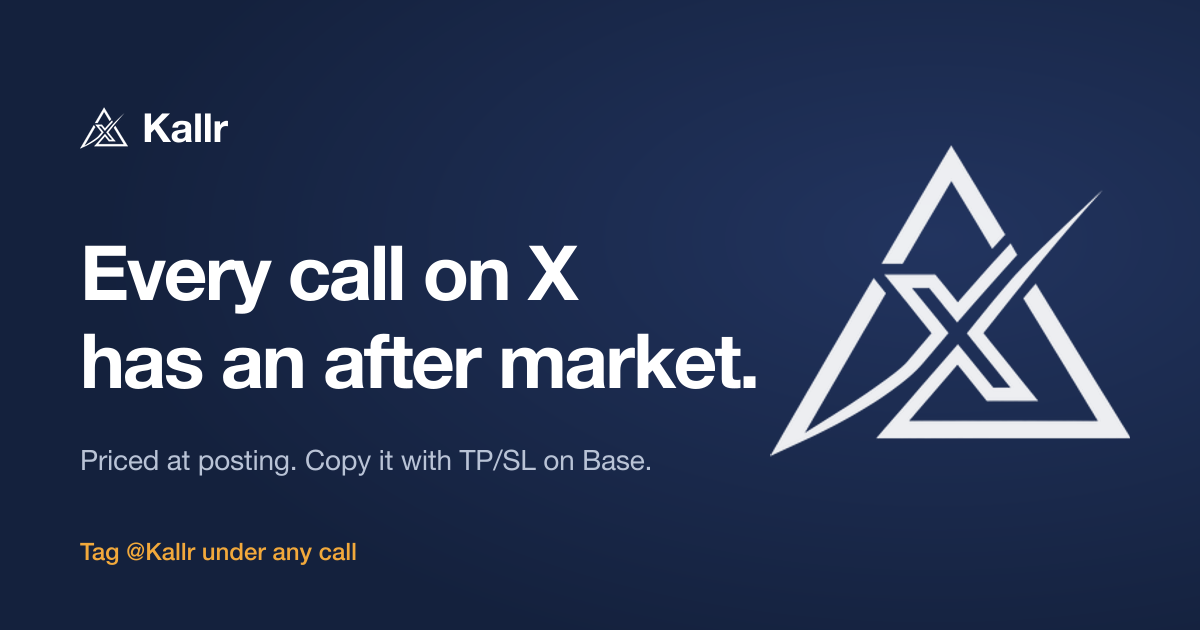
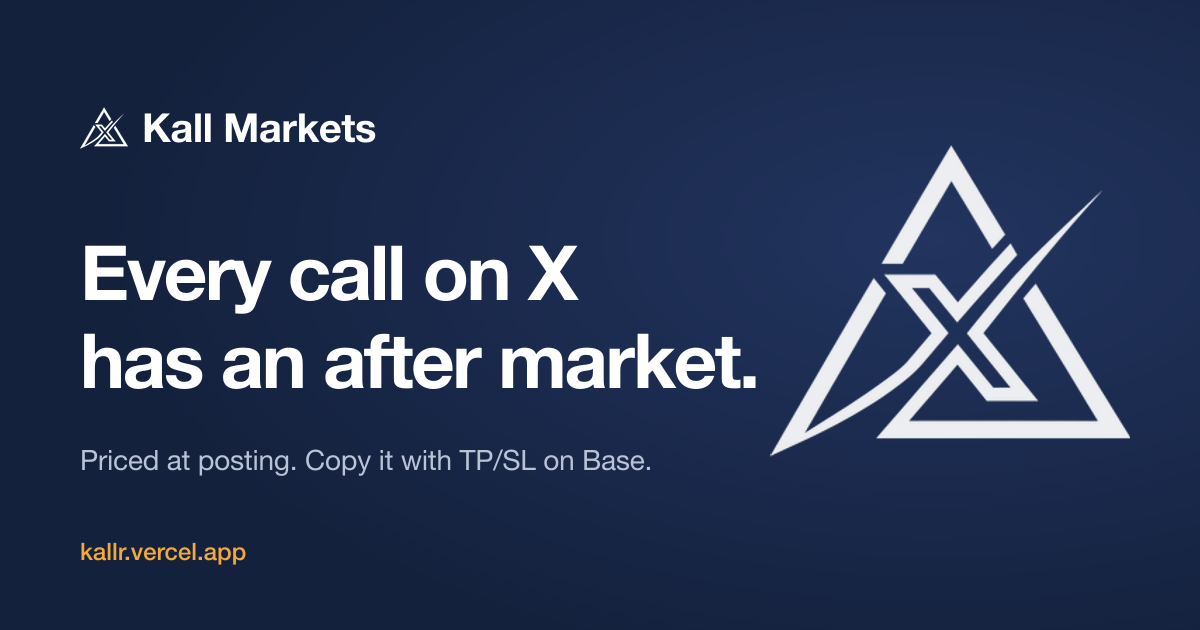
Rename the product to Kall Markets everywhere
Kall Markets replaces Kallr Markets, and the remaining Kallr copy now says Kall
Markets too: the Kall Markets wallet, desk, extension and keyboard, the keyboard
launcher icon and its two themes, the README and KALLR.md, and the social preview
image. Package names, the app ID, API routes, storage keys and the kallr.vercel.app
domain still say kallr.

Changed region(s): [[0.0617, 0.8444, 0.3083, 0.9048], [0.1542, 0.181, 0.3083, 0.2413]]

diff --git a/kallr-keyboard/app/src/main/kotlin/dev/patrickgold/florisboard/ime/kallr/KallrActivities.kt b/kallr-keyboard/app/src/main/kotlin/dev/patrickgold/florisboard/ime/kallr/KallrActivities.kt
@@ -206,7 +206,7 @@ private fun TradeSheet(order: KeyboardOrder, onClose: () -> Unit) {
                     SheetState.SignIn -> {
                         Text("Sign in to trade", fontSize = 18.sp, fontWeight = FontWeight.Medium)
                         Text(
-                            "Kallr Markets uses the same wallet as the Kallr desk. Sign in with X once; the key stays with Privy.",
+                            "Kall Markets uses the same wallet as the Kall Markets desk. Sign in with X once; the key stays with Privy.",
                             modifier = Modifier.padding(top = 6.dp, bottom = 14.dp),
                             color = MaterialTheme.colorScheme.onSurfaceVariant,
                         )
@@ -254,15 +254,15 @@ private fun TradeSheet(order: KeyboardOrder, onClose: () -> Unit) {
                         Spacer(Modifier.height(12.dp))
                         Text("Order placed on Base", fontSize = 18.sp, fontWeight = FontWeight.Medium)
                         Text(
-                            "${s.title} · Flash order ${s.orderId.take(10)}… · it shows on your Kallr Markets trades.",
+                            "${s.title} · Flash order ${s.orderId.take(10)}… · it shows on your Kall Markets trades.",
                             modifier = Modifier.padding(top = 6.dp, bottom = 14.dp),
                             color = MaterialTheme.colorScheme.onSurfaceVariant,
                         )
                         Row(horizontalArrangement = Arrangement.spacedBy(10.dp), verticalAlignment = Alignment.CenterVertically) {
                             OutlinedButton(onClick = {
-                                val share = "${s.title} via Kallr Markets" + (order.caller?.let { ", copying @$it's call" } ?: "") + ". Flash on Base."
+                                val share = "${s.title} via Kall Markets" + (order.caller?.let { ", copying @$it's call" } ?: "") + ". Flash on Base."
                                 val cm = context.getSystemService(ClipboardManager::class.java)
-                                cm?.setPrimaryClip(ClipData.newPlainText("Kallr", share))
+                                cm?.setPrimaryClip(ClipData.newPlainText("Kall Markets", share))
                                 Toast.makeText(context, "Copied. Paste it in the chat.", Toast.LENGTH_SHORT).show()
                                 onClose()
                             }, modifier = Modifier.weight(1f).height(48.dp)) { Text("Copy to share") }
@@ -333,7 +333,7 @@ private fun WalletScreen() {
             lineHeight = 36.sp,
         )
         Text(
-            "Trade calls from your keyboard, in X, Telegram or any app. Same wallet as the Kallr desk.",
+            "Trade calls from your keyboard, in X, Telegram or any app. Same wallet as the Kall Markets desk.",
             modifier = Modifier.padding(top = 6.dp, bottom = 20.dp),
             color = MaterialTheme.colorScheme.onSurfaceVariant,
         )
@@ -356,7 +356,7 @@ private fun WalletScreen() {
                 Text(a, fontSize = 15.sp, fontWeight = FontWeight.Medium, modifier = Modifier.padding(vertical = 6.dp))
                 Row(horizontalArrangement = Arrangement.spacedBy(10.dp)) {
                     OutlinedButton(onClick = {
-                        context.getSystemService(ClipboardManager::class.java)?.setPrimaryClip(ClipData.newPlainText("Kallr wallet", a))
+                        context.getSystemService(ClipboardManager::class.java)?.setPrimaryClip(ClipData.newPlainText("Kall Markets wallet", a))
                         Toast.makeText(context, "Address copied", Toast.LENGTH_SHORT).show()
                     }) { Text("Copy address") }
                     OutlinedButton(onClick = { scope.launch { refresh() } }) { Text("Refresh") }
@@ -419,12 +419,12 @@ private fun ShareSheet(text: String, onClose: () -> Unit) {
         Surface(Modifier.fillMaxWidth().clickable(enabled = false) {}, shape = RoundedCornerShape(topStart = 20.dp, topEnd = 20.dp), tonalElevation = 2.dp) {
             Column(Modifier.dotField().padding(start = 20.dp, end = 20.dp, top = 10.dp, bottom = 20.dp).navigationBarsPadding()) {
                 SheetHandle()
-                Text("Kallr Markets · check this call", fontSize = 18.sp, fontWeight = FontWeight.SemiBold)
+                Text("Kall Markets · check this call", fontSize = 18.sp, fontWeight = FontWeight.SemiBold)
                 Spacer(Modifier.height(8.dp))
                 val r = result
                 when {
                     loading -> Progress("Reading it…")
-                    r == null -> Text("Couldn't check that. Is the Kallr Markets server reachable?", color = MaterialTheme.colorScheme.error)
+                    r == null -> Text("Couldn't check that. Is the Kall Markets server reachable?", color = MaterialTheme.colorScheme.error)
                     else -> {
                         r.fake?.let {
                             Text(
@@ -445,7 +445,7 @@ private fun ShareSheet(text: String, onClose: () -> Unit) {
                         if (trade == null) {
                             if (r.fake == null) {
                                 Text(
-                                    "Nothing Kallr Markets can buy on Base for this.",
+                                    "Nothing Kall Markets can buy on Base for this.",
                                     color = MaterialTheme.colorScheme.onSurfaceVariant, fontSize = 13.sp, modifier = Modifier.padding(top = 6.dp),
                                 )
                             }

diff --git a/kallr-extension/src/flash-card.ts b/kallr-extension/src/flash-card.ts
@@ -17,7 +17,7 @@ export { tokenIcon } from "./logos";
  * The post card: live price header, the caller strip (record + Follow), the Call receipt strip, then
  * the trade flow. Trades on Base through Definitive Flash with take-profit / stop-loss attached as
  * one bracket. With MetaMask / Rabby on the page every step is signed right here, with a step
- * tracker; otherwise the Kallr desk opens to sign with the Privy wallet.
+ * tracker; otherwise the Kall Markets desk opens to sign with the Privy wallet.
  */
 
 const NAMES: Record<string, string> = { ETH: "Ethereum", BTC: "Bitcoin" };
@@ -141,7 +141,7 @@ export function flashCard(input: {
 
   const card = el("section", {
     class: `inline-card swap-card${input.attached ? " inline-attached" : ""}`,
-    "aria-label": `Trade ${input.asset} with Kallr Markets`,
+    "aria-label": `Trade ${input.asset} with Kall Markets`,
   });
   const priceText = el("b", {}, "…");
   const changeText = el("em", {});
@@ -158,7 +158,7 @@ export function flashCard(input: {
       ? `${hits}/${scored.length} calls moved their way`
       : calls.length
         ? `${calls.length} call${calls.length === 1 ? "" : "s"} seen · none scored yet`
-        : "New caller on Kallr Markets";
+        : "New caller on Kall Markets";
     const thisMove =
       call?.returnBps != null
         ? el("span", { class: call.returnBps >= 0 ? "up" : "down" }, ` · this call ${formatBps(call.returnBps)}`)
@@ -332,7 +332,7 @@ export function flashCard(input: {
       ...row("Steps", withExits ? "Approve twice, sign twice (first time)" : "Approve once (first time), sign once"),
       ...row("Route", "Best route by Definitive · MEV-protected"),
       ...row("Network", "Base mainnet · real funds"),
-      ...row("Sign in", walletOnPage === false ? "Kallr desk (Privy wallet)" : "Your browser wallet"),
+      ...row("Sign in", walletOnPage === false ? "Kall Markets desk (Privy wallet)" : "Your browser wallet"),
     );
 
     const pairBroken = side === "buy" && (tp === null) !== (sl === null);
@@ -451,7 +451,7 @@ export function flashCard(input: {
     if (!text) return;
     const url = deskOrderUrl(appOrigin, text, post);
     openDesk(url);
-    status.replaceChildren("No browser wallet here: review the quote and sign in the Kallr desk. ", safeLink(url, "Open desk ↗"));
+    status.replaceChildren("No browser wallet here: review the quote and sign in the Kall Markets desk. ", safeLink(url, "Open desk ↗"));
   });
 
   // --- token picker, shown over the trade panel ---
@@ -551,7 +551,7 @@ export function flashCard(input: {
     attachedIcon.replaceChildren(choice ? choiceIcon(choice, 28) : tokenIcon(sym(), 28));
     headName.textContent = nameOf();
     headSym.textContent = `${sym()} `;
-    attachedTitle.textContent = `Trade ${sym()} with Kallr Markets`;
+    attachedTitle.textContent = `Trade ${sym()} with Kall Markets`;
   }
   renderHead();
   const header = el(

diff --git a/kallr-webapp/app/page.tsx b/kallr-webapp/app/page.tsx
@@ -5,7 +5,7 @@ import { SignalField } from "@/components/signal-field";
 const steps = [
   {
     title: "Spot a call",
-    body: "On X, the Kallr extension marks every post that calls a coin. In Telegram or any other app, copy the message and the Kallr keyboard reads it.",
+    body: "On X, the Kall Markets extension marks every post that calls a coin. In Telegram or any other app, copy the message and the Kall Markets keyboard reads it.",
   },
   {
     title: "See the record",
@@ -50,7 +50,7 @@ export default function Landing() {
               How it works
             </a>
             <Link href="/app" className="rounded-md bg-lime px-4 py-2.5 font-semibold text-on-lime transition-colors hover:bg-lime-strong">
-              Open Kallr Markets <span aria-hidden="true">↗</span>
+              Open Kall Markets <span aria-hidden="true">↗</span>
             </Link>
           </nav>
         </div>
@@ -61,7 +61,7 @@ export default function Landing() {
           <SignalField />
           <div className="relative z-10 mx-auto w-full max-w-[1280px] px-6 pt-28 pb-20 lg:px-[7%]">
             <p className="font-mono text-xs tracking-[0.08em] text-slate">
-              <span className="text-[15px] text-lime">KALLR MARKETS</span> / CALLS FROM X. TRADES ON BASE.
+              <span className="text-[15px] text-lime">KALL MARKETS</span> / CALLS FROM X. TRADES ON BASE.
               <span className="terminal-cursor" aria-hidden="true">
                 _
               </span>
@@ -76,7 +76,7 @@ export default function Landing() {
             </h1>
             <p className="mt-8 max-w-[38rem] text-base leading-[1.65] whitespace-pre-line text-slate">
               {
-                "Every call on X gets a record: how the caller’s past calls actually played out.\nCopy it from the post with the extension, or from any chat with the Kallr keyboard.\nYour wallet. Your approval. Orders on Base through Definitive Flash."
+                "Every call on X gets a record: how the caller’s past calls actually played out.\nCopy it from the post with the extension, or from any chat with the Kall Markets keyboard.\nYour wallet. Your approval. Orders on Base through Definitive Flash."
               }
             </p>
             <div className="mt-10 flex flex-wrap items-center gap-x-8 gap-y-4">
@@ -109,7 +109,7 @@ export default function Landing() {
                 </a>
               </div>
               <p className="max-w-md leading-relaxed text-slate">
-                Kallr Markets is built entirely on <span className="text-ink">Definitive Flash</span>. Every buy, sell, limit and
+                Kall Markets is built entirely on <span className="text-ink">Definitive Flash</span>. Every buy, sell, limit and
                 TWAP order, from X or the keyboard, is a Flash order on Base: quote, price impact and fee up front, signed by
                 your own wallet.
               </p>

diff --git a/kallr-webapp/app/layout.tsx b/kallr-webapp/app/layout.tsx
@@ -7,26 +7,26 @@ import { Providers } from "./providers";
 import { ServiceWorkerRegister } from "@/components/sw-register";
 
 export const metadata: Metadata = {
-  title: "Kallr Markets",
+  title: "Kall Markets",
   description:
-    "See how a crypto caller’s past calls played out, then copy the call on Base with exits attached: from X with the extension, or from any chat with the Kallr keyboard.",
-  applicationName: "Kallr Markets",
+    "See how a crypto caller’s past calls played out, then copy the call on Base with exits attached: from X with the extension, or from any chat with the Kall Markets keyboard.",
+  applicationName: "Kall Markets",
   // Absolute URLs for share cards. Set NEXT_PUBLIC_SITE_URL to the deployed origin.
   metadataBase: new URL(process.env.NEXT_PUBLIC_SITE_URL || "http://localhost:3000"),
   openGraph: {
     type: "website",
-    siteName: "Kallr Markets",
-    title: "Kallr Markets: every call on X has an after market",
+    siteName: "Kall Markets",
+    title: "Kall Markets: every call on X has an after market",
     description: "Priced at posting. Copy it with take-profit and stop-loss on Base.",
-    images: [{ url: "/brand/og.png", width: 1200, height: 630, alt: "Kallr Markets" }],
+    images: [{ url: "/brand/og.png", width: 1200, height: 630, alt: "Kall Markets" }],
   },
   twitter: {
     card: "summary_large_image",
-    title: "Kallr Markets: every call on X has an after market",
+    title: "Kall Markets: every call on X has an after market",
     description: "Priced at posting. Copy it with take-profit and stop-loss on Base.",
     images: ["/brand/og.png"],
   },
-  appleWebApp: { capable: true, title: "Kallr Markets", statusBarStyle: "default" },
+  appleWebApp: { capable: true, title: "Kall Markets", statusBarStyle: "default" },
   icons: {
     icon: [
       { url: "/icons/favicon-32.png", sizes: "32x32", type: "image/png" },

diff --git a/kallr-webapp/components/wallet-panel.tsx b/kallr-webapp/components/wallet-panel.tsx
@@ -8,7 +8,7 @@ import { formatAmount, getBalances, shortAddress, type Balances } from "@/lib/ch
 const BASESCAN = "https://basescan.org/address/";
 
 /**
- * Which wallet Kallr trades from, said plainly (MetaMask or the Kallr wallet Privy made for you), its
+ * Which wallet Kallr trades from, said plainly (MetaMask or the Kall Markets wallet Privy made for you), its
  * balances on Base, and a switch to any other connected wallet.
  */
 export function WalletPanel({ session }: { session: Session }) {
@@ -33,7 +33,7 @@ export function WalletPanel({ session }: { session: Session }) {
         <p className="mt-1 text-sm text-slate">
           {active?.embedded
             ? "The wallet Privy made for you when you signed in with X. Only you can sign from it."
-            : "Your own wallet. Kallr Markets asks it to sign every order; funds never leave it until a trade fills."}{" "}
+            : "Your own wallet. Kall Markets asks it to sign every order; funds never leave it until a trade fills."}{" "}
           Network: <span className="font-semibold text-ink">Base</span>.
         </p>
         <Balances address={session.address} />
@@ -60,7 +60,7 @@ export function WalletPanel({ session }: { session: Session }) {
           <p className="mt-3 text-sm text-slate">
             {active?.embedded
               ? "Have funds in MetaMask? Connect it and trade from it directly."
-              : "Your Kallr (Privy) wallet appears here too once it's created."}
+              : "Your Kall Markets (Privy) wallet appears here too once it's created."}
           </p>
         )}
       </section>

diff --git a/kallr-webapp/lib/server/keyboard-tokens.ts b/kallr-webapp/lib/server/keyboard-tokens.ts
@@ -50,7 +50,7 @@ export async function tradeTokenByKey(key: string): Promise<TradeToken> {
   }
   const found = (await flashSearch(key))?.find((t) => t.address.toLowerCase() === key.toLowerCase());
   if (found) {
-    if (found.riskFlagged) throw new Error(`Definitive flags ${found.symbol} as risky, so Kallr Markets won't trade it.`);
+    if (found.riskFlagged) throw new Error(`Definitive flags ${found.symbol} as risky, so Kall Markets won't trade it.`);
     if (Number(found.price) > 0) return { token: found.address as `0x${string}`, symbol: found.symbol, price: Number(found.price), logo: found.imageUrl ?? null };
   }
   // Flash search unavailable: Dexscreener for price and liquidity, GoPlus for honeypots and owner powers.
@@ -61,7 +61,7 @@ export async function tradeTokenByKey(key: string): Promise<TradeToken> {
   if (!pair || !(Number(pair.priceUsd) > 0)) throw new Error("No live price for that token on Base.");
   if ((pair.liquidity?.usd ?? 0) < MIN_LIQUIDITY_USD) throw new Error(`${pair.baseToken.symbol} has under $50K of liquidity on Base.`);
   const danger = check?.flags.find((f) => f.severity === "danger");
-  if (danger) throw new Error(`${pair.baseToken.symbol}: ${danger.text}. Kallr Markets won't trade it.`);
+  if (danger) throw new Error(`${pair.baseToken.symbol}: ${danger.text}. Kall Markets won't trade it.`);
   return { token: pair.baseToken.address as `0x${string}`, symbol: pair.baseToken.symbol, price: Number(pair.priceUsd), logo: pair.info?.imageUrl ?? null };
 }
 

diff --git a/kallr-keyboard/app/src/main/kotlin/dev/patrickgold/florisboard/ime/kallr/KallrPanel.kt b/kallr-keyboard/app/src/main/kotlin/dev/patrickgold/florisboard/ime/kallr/KallrPanel.kt
@@ -657,7 +657,7 @@ private fun PositionsTab(wallet: String?) {
 @Composable
 private fun WalletTab(wallet: String?) {
     val context = LocalContext.current
-    if (wallet == null) return SignInPrompt("Kallr Markets trades from your Privy embedded wallet, the same one as the Kallr desk. Sign in with X once; the key stays with Privy.")
+    if (wallet == null) return SignInPrompt("Kall Markets trades from your Privy embedded wallet, the same one as the Kall Markets desk. Sign in with X once; the key stays with Privy.")
     Column(Modifier.fillMaxSize().verticalScroll(rememberScrollState())) {
         Card {
             Text("Embedded wallet on Base", color = Muted, fontSize = 11.sp)
@@ -667,7 +667,7 @@ private fun WalletTab(wallet: String?) {
         Row(Modifier.fillMaxWidth()) {
             Box(Modifier.weight(1f)) {
                 PrimaryButton("Copy address") {
-                    context.getSystemService(ClipboardManager::class.java)?.setPrimaryClip(ClipData.newPlainText("Kallr wallet", wallet))
+                    context.getSystemService(ClipboardManager::class.java)?.setPrimaryClip(ClipData.newPlainText("Kall Markets wallet", wallet))
                     Toast.makeText(context, "Address copied", Toast.LENGTH_SHORT).show()
                 }
             }

diff --git a/kallr-keyboard/app/src/main/kotlin/dev/patrickgold/florisboard/ime/kallr/KallrClient.kt b/kallr-keyboard/app/src/main/kotlin/dev/patrickgold/florisboard/ime/kallr/KallrClient.kt
@@ -162,7 +162,7 @@ object Kallr {
                 (json.parseToJsonElement(text) as kotlinx.serialization.json.JsonObject)["error"]?.toString()?.trim('"')
             }.getOrNull() ?: "Voice failed (${connection.responseCode})"))
         } catch (e: Exception) {
-            Result.failure(Exception("Couldn't reach Kallr Markets at $origin"))
+            Result.failure(Exception("Couldn't reach Kall Markets at $origin"))
         } finally {
             connection.disconnect()
         }
@@ -185,9 +185,9 @@ object Kallr {
             if (ok) Result.success(text)
             else Result.failure(Exception(runCatching {
                 json.parseToJsonElement(text).let { (it as kotlinx.serialization.json.JsonObject)["error"]?.toString()?.trim('"') }
-            }.getOrNull() ?: "Kallr Markets server error (${connection.responseCode})"))
+            }.getOrNull() ?: "Kall Markets server error (${connection.responseCode})"))
         } catch (e: Exception) {
-            Result.failure(Exception("Couldn't reach Kallr Markets at $origin"))
+            Result.failure(Exception("Couldn't reach Kall Markets at $origin"))
         } finally {
             connection.disconnect()
         }

diff --git a/kallr-extension/src/dom.ts b/kallr-extension/src/dom.ts
@@ -50,7 +50,7 @@ export function brandMark(size = 16) {
 
 /** The Kallr lockup: mark + name. */
 export function wordmark(size = 16) {
-  return el("span", { class: "wordmark" }, brandMark(size), el("span", {}, "Kallr Markets"));
+  return el("span", { class: "wordmark" }, brandMark(size), el("span", {}, "Kall Markets"));
 }
 
 /** "Powered by Kallr" line under brand surfaces. */
@@ -129,7 +129,7 @@ function showReloadNotice() {
     "padding:10px 12px 10px 16px;border-radius:999px;background:#14213d;color:#fff;font:500 14px/1.3 system-ui,sans-serif;" +
     "box-shadow:0 12px 32px rgba(20,33,61,.35)";
   const text = document.createElement("span");
-  text.textContent = "Kallr Markets was updated. Reload this tab to keep using it.";
+  text.textContent = "Kall Markets was updated. Reload this tab to keep using it.";
   const button = document.createElement("button");
   button.type = "button";
   button.textContent = "Reload";

diff --git a/kallr-webapp/components/auth.tsx b/kallr-webapp/components/auth.tsx
@@ -34,7 +34,7 @@ const readActive = () => {
 
 /** "metamask" → "MetaMask", "rabby_wallet" → "Rabby Wallet". */
 export function walletLabel(clientType: string) {
-  if (clientType === "privy") return "Kallr wallet (Privy)";
+  if (clientType === "privy") return "Kall Markets wallet (Privy)";
   if (clientType === "metamask") return "MetaMask";
   if (clientType === "coinbase_wallet") return "Coinbase Wallet";
   return clientType.replace(/_/g, " ").replace(/\b\w/g, (c) => c.toUpperCase());
@@ -63,7 +63,7 @@ export function usePrivySession(): Session {
     handle: user?.twitter?.username ?? user?.email?.address ?? null,
     address,
     embedded: chosen?.embedded ?? true,
-    walletName: chosen?.name ?? (address ? "Kallr wallet (Privy)" : null),
+    walletName: chosen?.name ?? (address ? "Kall Markets wallet (Privy)" : null),
     wallets: list,
     selectWallet: (a) => {
       try {

diff --git a/kallr-extension/src/profile.test.ts b/kallr-extension/src/profile.test.ts
@@ -131,8 +131,8 @@ describe("scanProfile", () => {
     expect(hosts[0]?.nextElementSibling?.getAttribute("role")).toBe("tablist");
     const root = hosts[0]?.shadowRoot;
     const text = root?.textContent ?? "";
-    expect(root?.querySelector(".card .title .wordmark")?.textContent).toBe("Kallr Markets");
-    expect(root?.querySelector(".card .title .title-sub")?.textContent).toBe("@kol on Kallr Markets");
+    expect(root?.querySelector(".card .title .wordmark")?.textContent).toBe("Kall Markets");
+    expect(root?.querySelector(".card .title .title-sub")?.textContent).toBe("@kol on Kall Markets");
     // Follow sits in the title row, drawn like X's Follow button.
     expect(root?.querySelector(".card .title .x-follow")?.textContent).toBe("Follow");
     expect(root?.querySelector(".card-actions .cta")?.getAttribute("href")).toBe("https://kallr.test/app");

diff --git a/kallr-webapp/lib/server/ai.ts b/kallr-webapp/lib/server/ai.ts
@@ -117,7 +117,7 @@ export async function readCall(text: string): Promise<CallRead | null> {
 /** Coin and order words spoken orders use; under 100 so short clips aren't billed at a 20s minimum. */
 const KEYTERMS = [
   "ETH", "BTC", "USDC", "DEGEN", "PEPE", "BRETT", "TOSHI", "AERO", "VIRTUAL", "MOG", "HIGHER", "KEYCAT",
-  "WETH", "cbBTC", "Base", "Kallr", "Kallr Markets", "take profit", "stop loss", "limit order", "TWAP", "buy the dip", "dollars",
+  "WETH", "cbBTC", "Base", "Kallr", "Kall Markets", "take profit", "stop loss", "limit order", "TWAP", "buy the dip", "dollars",
 ]
 
 /** Speech to text with ElevenLabs Scribe; OpenAI transcription if ElevenLabs isn't available. */
